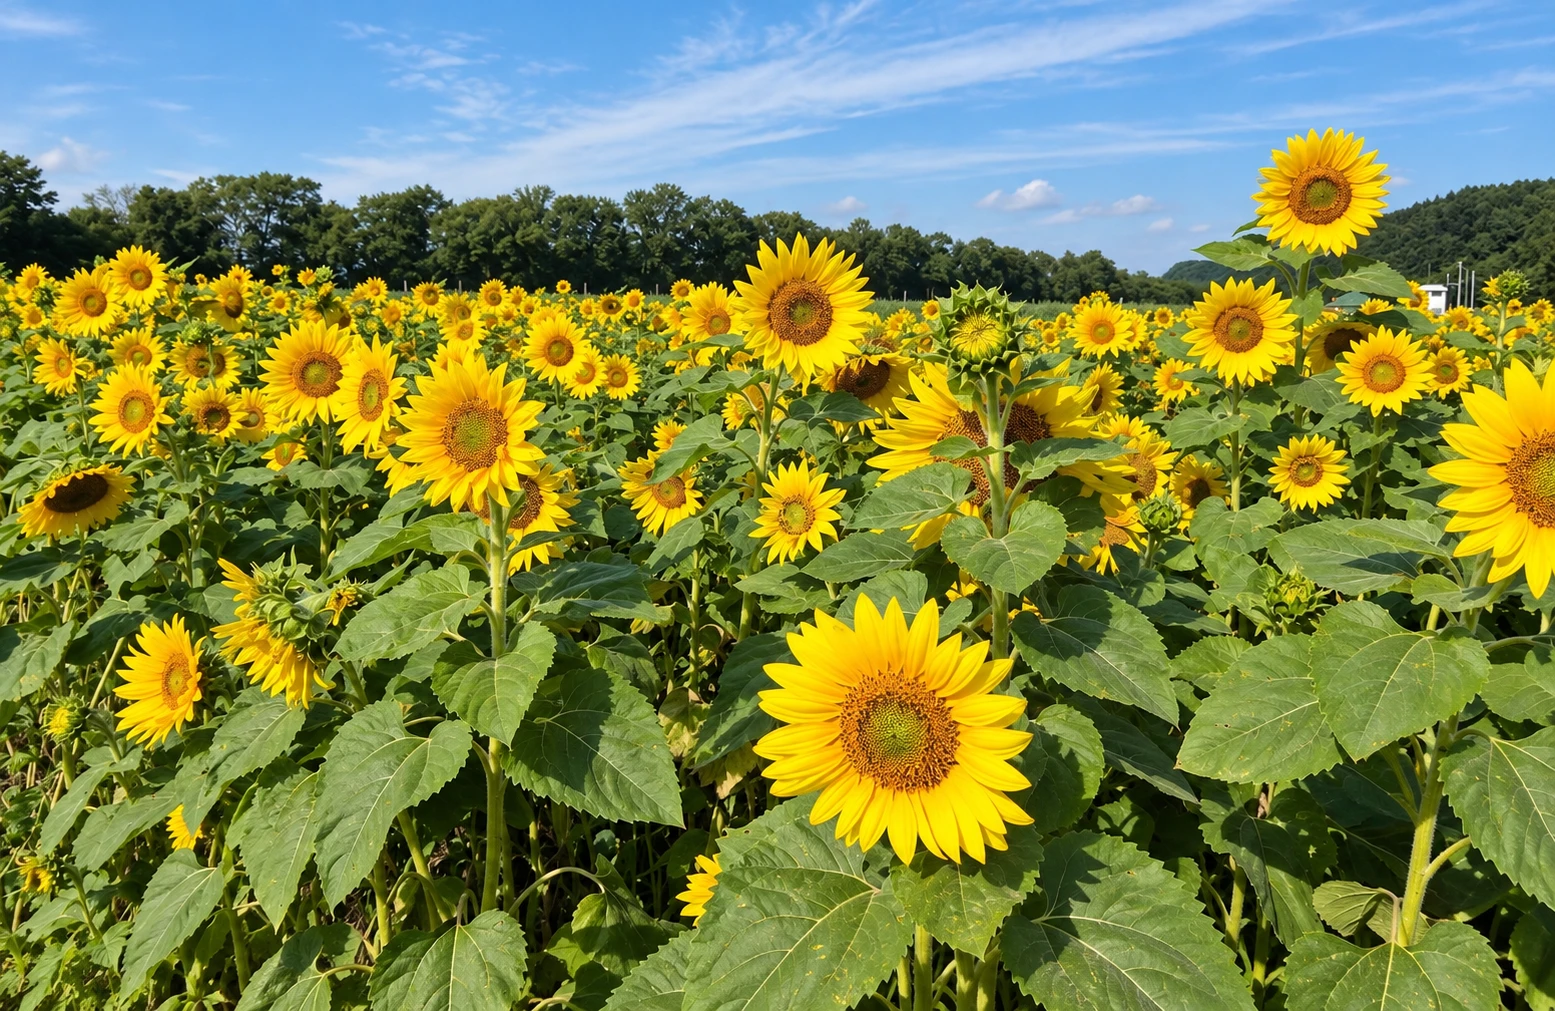
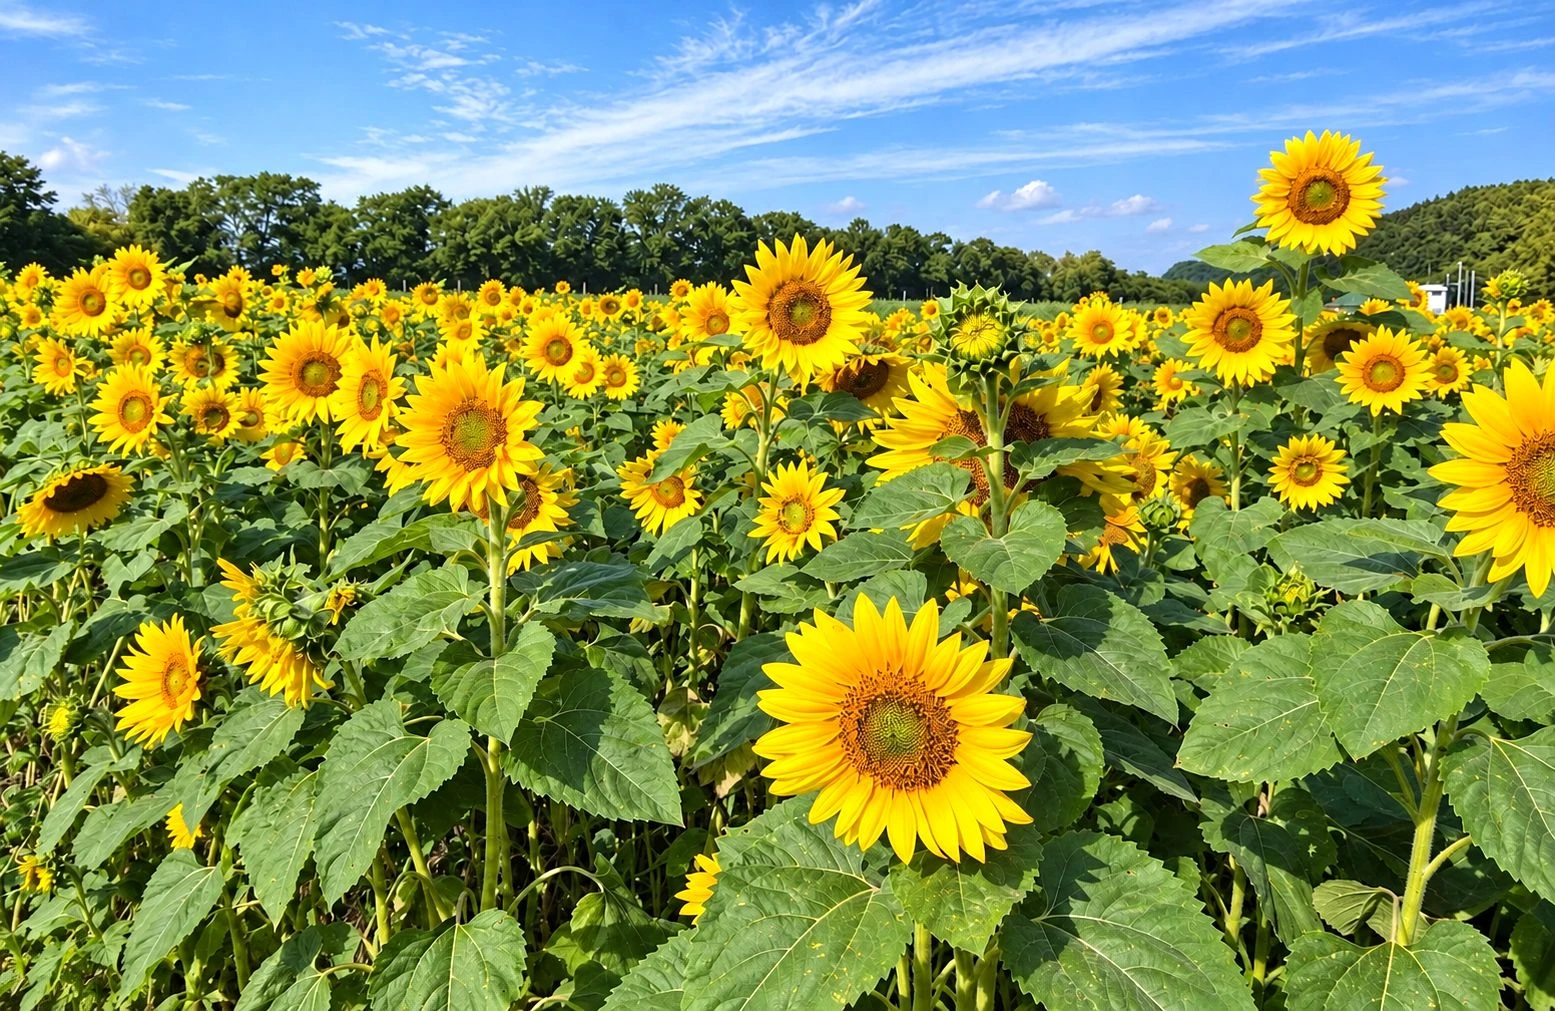
Auto-save

Changed region(s): [[0.0, 0.0307, 1.0, 1.0], [0.0309, 0.092, 0.0617, 0.1227], [0.0, 0.0, 0.0309, 0.0307]]

diff --git a/abashiri/v3/components/PhotoSetSwitch.tsx b/abashiri/v3/components/PhotoSetSwitch.tsx
@@ -1,0 +1,81 @@
+"use client";
+
+/*
+ * 写真の「新しい（調整済み）／前の」切り替え（2026-10-20）
+ *
+ * 【ヒデさん】「調整した画像があるので、これを差し替えてデフォルトにしてほしい。
+ *   調整パネル上では前の画像にも戻れるようにしてほしい」
+ *   →「キービジュアルの画像をフッターの方でも。関連する下層ページも同じく差し替え」
+ *   →「詳しいページの能取岬の写真は、灯台が見えている方に」
+ * - 新しい写真は今までと同じファイル名に入れた（＝どのページも何も書き換えずに新しい写真になる）。
+ *   前の写真は、同じ場所に「-prev」を付けて控えてある（例：bg-hero.jpg → bg-hero-prev.jpg）
+ * - 調整パネル › サイト共通 › バリエーション › 写真 で「前の写真」を選ぶと、トップのパネルが <html data-photo-set="prev"> を立て、
+ *   この部品がページの中の該当する <img> を前の写真へ差し替える（ページを移っても・後から出た写真も見張って差し替える）。
+ *   パネルの無いページ（詳しいページなど）は、パネルの保存値を読んで同じにする
+ * - どちらかに決まったら、この部品ごと外せる（新しい写真なら -prev のファイルと一緒に消すだけ）
+ */
+import { useEffect } from "react";
+import { TOP_TUNE_KEY, TOP_TUNE_VERSION } from "./tuneKeys";
+
+/** 差し替えた写真（今の名前＝新しい写真 → 前の写真の控え）。差し替える写真が増えたらここに1行足す */
+export const PHOTO_SWAPS: Record<string, string> = {
+  "/img/bg-hero.jpg": "/img/bg-hero-prev.jpg", /* キービジュアル・フッター・メニューの背景 */
+  "/img/spot-notoro.webp": "/img/spot-notoro-prev.webp", /* 能取岬（トップ・詳しいページの大きい写真） */
+  "/img/spot/notoro-1.webp": "/img/spot/notoro-1-prev.webp", /* 能取岬の詳しいページの写真1枚目（前は海と崖・今は灯台） */
+  "/img/spot-sangoso.webp": "/img/spot-sangoso-prev.webp", /* サンゴ草 */
+  "/img/spot-ryuhyo.webp": "/img/spot-ryuhyo-prev.webp", /* 流氷 */
+  "/img/spot/himawari-1.webp": "/img/spot/himawari-1-prev.webp", /* ひまわり（トップ・詳しいページ・体験ページ） */
+};
+const REVERSE: Record<string, string> = Object.fromEntries(Object.entries(PHOTO_SWAPS).map(([a, b]) => [b, a]));
+
+/** 1: 新しい写真（既定）／0: 前の写真 */
+export const PHOTO_SET_DEFAULT = 1;
+
+const pathOf = (src: string) => {
+  try {
+    return new URL(src, location.href).pathname;
+  } catch {
+    return src;
+  }
+};
+
+export default function PhotoSetSwitch() {
+  useEffect(() => {
+    const read = (): number => {
+      const ds = document.documentElement.dataset.photoSet;
+      if (ds === "prev") return 0;
+      if (ds === "new") return 1;
+      try {
+        const saved = JSON.parse(localStorage.getItem(`tp:${TOP_TUNE_KEY}:v${TOP_TUNE_VERSION}`) || "null");
+        const v = saved?.photos?.set;
+        return typeof v === "number" ? v : PHOTO_SET_DEFAULT;
+      } catch {
+        return PHOTO_SET_DEFAULT;
+      }
+    };
+    const apply = () => {
+      const usePrev = read() === 0;
+      document.querySelectorAll<HTMLImageElement>("img[src]").forEach((img) => {
+        const p = pathOf(img.getAttribute("src") || "");
+        const to = usePrev ? PHOTO_SWAPS[p] : REVERSE[p];
+        if (to) img.setAttribute("src", to);
+      });
+    };
+    apply();
+    /* パネルの切り替え（html の印）と、ページ移動・後から出た写真の両方を見張る */
+    const htmlObs = new MutationObserver(apply);
+    htmlObs.observe(document.documentElement, { attributes: true, attributeFilter: ["data-photo-set"] });
+    let raf = 0;
+    const bodyObs = new MutationObserver(() => {
+      cancelAnimationFrame(raf);
+      raf = requestAnimationFrame(apply);
+    });
+    bodyObs.observe(document.body, { childList: true, subtree: true, attributes: true, attributeFilter: ["src"] });
+    return () => {
+      htmlObs.disconnect();
+      bodyObs.disconnect();
+      cancelAnimationFrame(raf);
+    };
+  }, []);
+  return null;
+}

diff --git a/abashiri/v3/components/TopTunePanel.tsx b/abashiri/v3/components/TopTunePanel.tsx
@@ -48,6 +48,7 @@ import { EV_FLOWS } from "./eventParts";
 import { TOP_TUNE_KEY, TOP_TUNE_VERSION } from "./tuneKeys";
 import { attachPhoneMode } from "./phoneMode";
 import { FADE_CURVES, FADE_VALUES, PHOTO_TONES } from "./SiteFooter";
+import { PHOTO_SET_DEFAULT } from "./PhotoSetSwitch";
 import { DEFAULT_INTRO_PACE, type IntroPace } from "./ExperienceFlow";
 import { DEFAULT_ENTER_TUNE, type EnterTune } from "./enterPatterns";
 
@@ -176,6 +177,8 @@ type Params = {
   intro: { delay: number; hold: number };
   preview: { faceOn: boolean; patchRed: boolean };
   sound: { volume: number };
+  /** 写真の組 1＝新しい（調整済み・既定）／0＝前の写真（PhotoSetSwitch・2026-10-20） */
+  photos: { set: number };
   bird: { opacity: number; color: string; stroke: number };
   face: FaceConfig;
   sparkle: { period: number };
@@ -268,6 +271,7 @@ export default function TopTunePanel({
       preview: { faceOn: false, patchRed: false },
       /* 音量は % で持つ（スライダーが扱いやすいので）。0〜100 = 0〜1 */
       sound: { volume: Math.round(DEFAULT_BGM_VOLUME * 100) },
+      photos: { set: PHOTO_SET_DEFAULT },
       /* カモメ共通の不透明度(%)。全ページのカモメに効く */
       bird: { opacity: 100, color: "#ffffff", stroke: 100 },
       face: { ...DEFAULT_FACE },
@@ -391,6 +395,8 @@ export default function TopTunePanel({
       root.style.setProperty("--nav-in", String(params.nav.inMs));
       root.style.setProperty("--nav-out", String(params.nav.outMs));
       root.style.setProperty("--sec-head", `${params.secHead}px`);
+      /* 写真の組（PhotoSetSwitch が <html data-photo-set> を見張って差し替える） */
+      root.dataset.photoSet = (params.photos?.set ?? PHOTO_SET_DEFAULT) === 0 ? "prev" : "new";
     };
     /* 音量は SoundUi へイベントで直接渡す（鳴っている最中でもその場で変わる） */
     const applyVolume = () =>
@@ -571,6 +577,22 @@ export default function TopTunePanel({
               /* 【2026-09-26】ハンバーガーメニューの3案は「案1 空に浮かぶ作字」に確定したので、
                  ここにあった切り替えは外した（MobileHeader.tsx に固定） */
               /* 左上の音のスイッチのアイコンは 2026-10-20 に「音の波」に決定（5案の切り替えは外した・BgmIcons.tsx） */
+              /* 【2026-10-20 ヒデさん】「調整した画像に差し替えてデフォルトに。調整パネル上では前の画像にも戻れるように」。
+                 写真の組の見比べなのでバリエーション（6-13・6-18） */
+              { sub: "写真（全ページ共通）", grp: "variation" },
+              {
+                note: "キービジュアル・フッター・能取岬・サンゴ草・流氷・ひまわりの写真（トップ・詳しいページ・体験ページ）。",
+              },
+              {
+                pills: "写真",
+                path: "photos.set",
+                immediate: true,
+                autoNum: false,
+                options: [
+                  { name: "新しい写真", value: 1, desc: "【既定・2026-10-20】ヒデさんが明るさ・色を調整した写真" },
+                  { name: "前の写真", value: 0, desc: "調整する前の写真（-prev のファイル）" },
+                ],
+              },
               { sub: "環境音（BGM）", grp: "other" },
               {
                 slider: "音量",

diff --git a/abashiri/v3/app/layout.tsx b/abashiri/v3/app/layout.tsx
@@ -1,6 +1,7 @@
 import type { Metadata } from "next";
 import { Noto_Sans_JP, Inter } from "next/font/google";
 import SoundUi from "@/components/SoundUi";
+import PhotoSetSwitch from "@/components/PhotoSetSwitch";
 import PageTransition from "@/components/PageTransition";
 import LivePhone from "@/components/LivePhone";
 import "./globals.css";
@@ -53,6 +54,8 @@ export default function RootLayout({
         <SoundUi askConsent />
         {/* ページ遷移の幕（ブラー5案）。レイアウト常駐で全ページに効く */}
         <PageTransition />
+        {/* 写真の「新しい／前の」切り替え（調整パネル › サイト共通 › 写真・2026-10-20）。全ページに効く */}
+        <PhotoSetSwitch />
         {/* スマホモード（実機ライブ同期）の受け手。開発時だけ動く（本番では何もしない） */}
         <LivePhone />
       </body>

diff --git a/settings/tune-panel/README.md b/settings/tune-panel/README.md
@@ -805,7 +805,7 @@ autoCenter の既定と使い方（冒頭「自動で真ん中」・引き継ぎ
   - 写しの先頭に「⚠ 自動で写した物。直接直さない」の1行が付く
 - 写すきっかけ
   1. 網走の `npm run dev`・`npm run build` の前（package.json の `predev`・`prebuild` → `abashiri/v3/scripts/sync-tune-panel.mjs` → この道具を `--site abashiri/v3` で呼ぶ）
-  2. 原本を Claude Code で書き換えた直後（仕掛け：`.claude/settings.json` の PostToolUse・Write|Edit|MultiEdit に `node "$CLAUDE_PROJECT_DIR/settings/tune-panel/sync-copies.mjs" --hook 2>/dev/null || true` を足す）。網走のサーバーが動きっぱなしでも、写しがその場で新しくなる（public/ のファイルなので、ページを読み直せば新しい写しが届く）。⚠ 2026-10-20 時点では、設定への書き足しはヒデさんの OK 待ち（道具の側は出来ていて、同じ入力で試して動くのを確かめた）
+  2. 原本を Claude Code で書き換えた直後（仕掛け：`.claude/settings.json` の PostToolUse・Write|Edit|MultiEdit に `node "$CLAUDE_PROJECT_DIR/settings/tune-panel/sync-copies.mjs" --hook 2>/dev/null || true` を足す）。網走のサーバーが動きっぱなしでも、写しがその場で新しくなる（public/ のファイルなので、ページを読み直せば新しい写しが届く）。2026-10-20 ヒデさんの OK（「足す（おすすめ）」）で設定に書き足し済み。同じ入力で流して、写しが原本と同じになるのを確かめた
 - 原本が見つからない時（Vercel では網走のフォルダだけが送られる）は、失敗させずに何もしない（その時ある写しをそのまま使う）。⚠ だからデプロイの前に、手元で写しが新しいことを確かめる（網走で `npm run check:tune-panel`）
 - 写しが原本と違うかは、網走の `npm run check:tune-panel` と、この部品の自動検査（`test/check.mjs` の 19.・`COPIES` の全部のサイト）で調べる（原本を直して写し直していないと ❌ になる）
 - 網走V3 の写しは v2.2.1 → v2.3.2 に。網走の写しにだけある直しは無かった（v2.2.0＋v2.3.1 の▲の直しで、どちらも原本に入っている）。網走のページ側の先回りの直し（`pinSelectedVariantBase`）は、部品が直ったので外した

diff --git a/settings/docs/abashiri/HANDOFF-V3.md b/settings/docs/abashiri/HANDOFF-V3.md
@@ -127,6 +127,7 @@ V3 の中身:
 - **フッターは案3「ふつうのフッター」の作りに決定・ほかの案は削除**（2026-10-20 ヒデさん「案3をベースに、それ以外の案を削除してOK」）。**グラデ5パターンのどれにするかは判断待ち**：調整パネル › サイト共通 › バリエーション › フッター › グラデ（1 長く、なめらかに＝既定🟡／2 白がゆっくり明ける／3 空色を経由して／4 ぼかしながら現れる／5 霞が残る）。トップでは写真を体験の下へ400px重ね🟡・助走パディング96px🟡・グラデ64〜72%🟡・上のパディング64px🟡
 - **左上の音のスイッチのアイコンは「音の波」に決定**（2026-10-20・ほかの案と前の絵は削除）。白い場面では文字と一緒に濃い灰色へ
 - **フッターの写真は案1「写真を明るく」をヒデさんの調整値（明るさ120%・影0%・影の高さ40%）で既定に**（2026-10-20）。ほかの案（前の暗いまま／影を海の青に／光を重ねる）もパネルに残っている。つまみ：エフェクト › フッター › 写真（明るさ・彩度・影の濃さ・影の高さ・光の強さ）
+- **写真をヒデさんの調整版に差し替え**（2026-10-20・キービジュアル／フッター・能取岬・サンゴ草・流氷・ひまわり）。前の写真は `-prev` で控え、調整パネル › サイト共通 › バリエーション › 写真 で戻せる（PhotoSetSwitch）
 - 体験セクション案2の送りボタン（案4 丸いボタンを下に・2026-10-14 決定）：束の下32px・2つの間16px・白い地用の色（地 white/70・線 black/20）・スマホの大きさ48px・ぐるぐる回る は仮置き
 - 案2（カードを切る）：切る速さ1.0秒・メリハリ3・右へ出る距離560px・回転10度は仮置き。右へ出る距離と回転もつまみにするか未回答
 - ページ切り替え案7：1.0秒・ぼかし3px・白88%は仮置き
